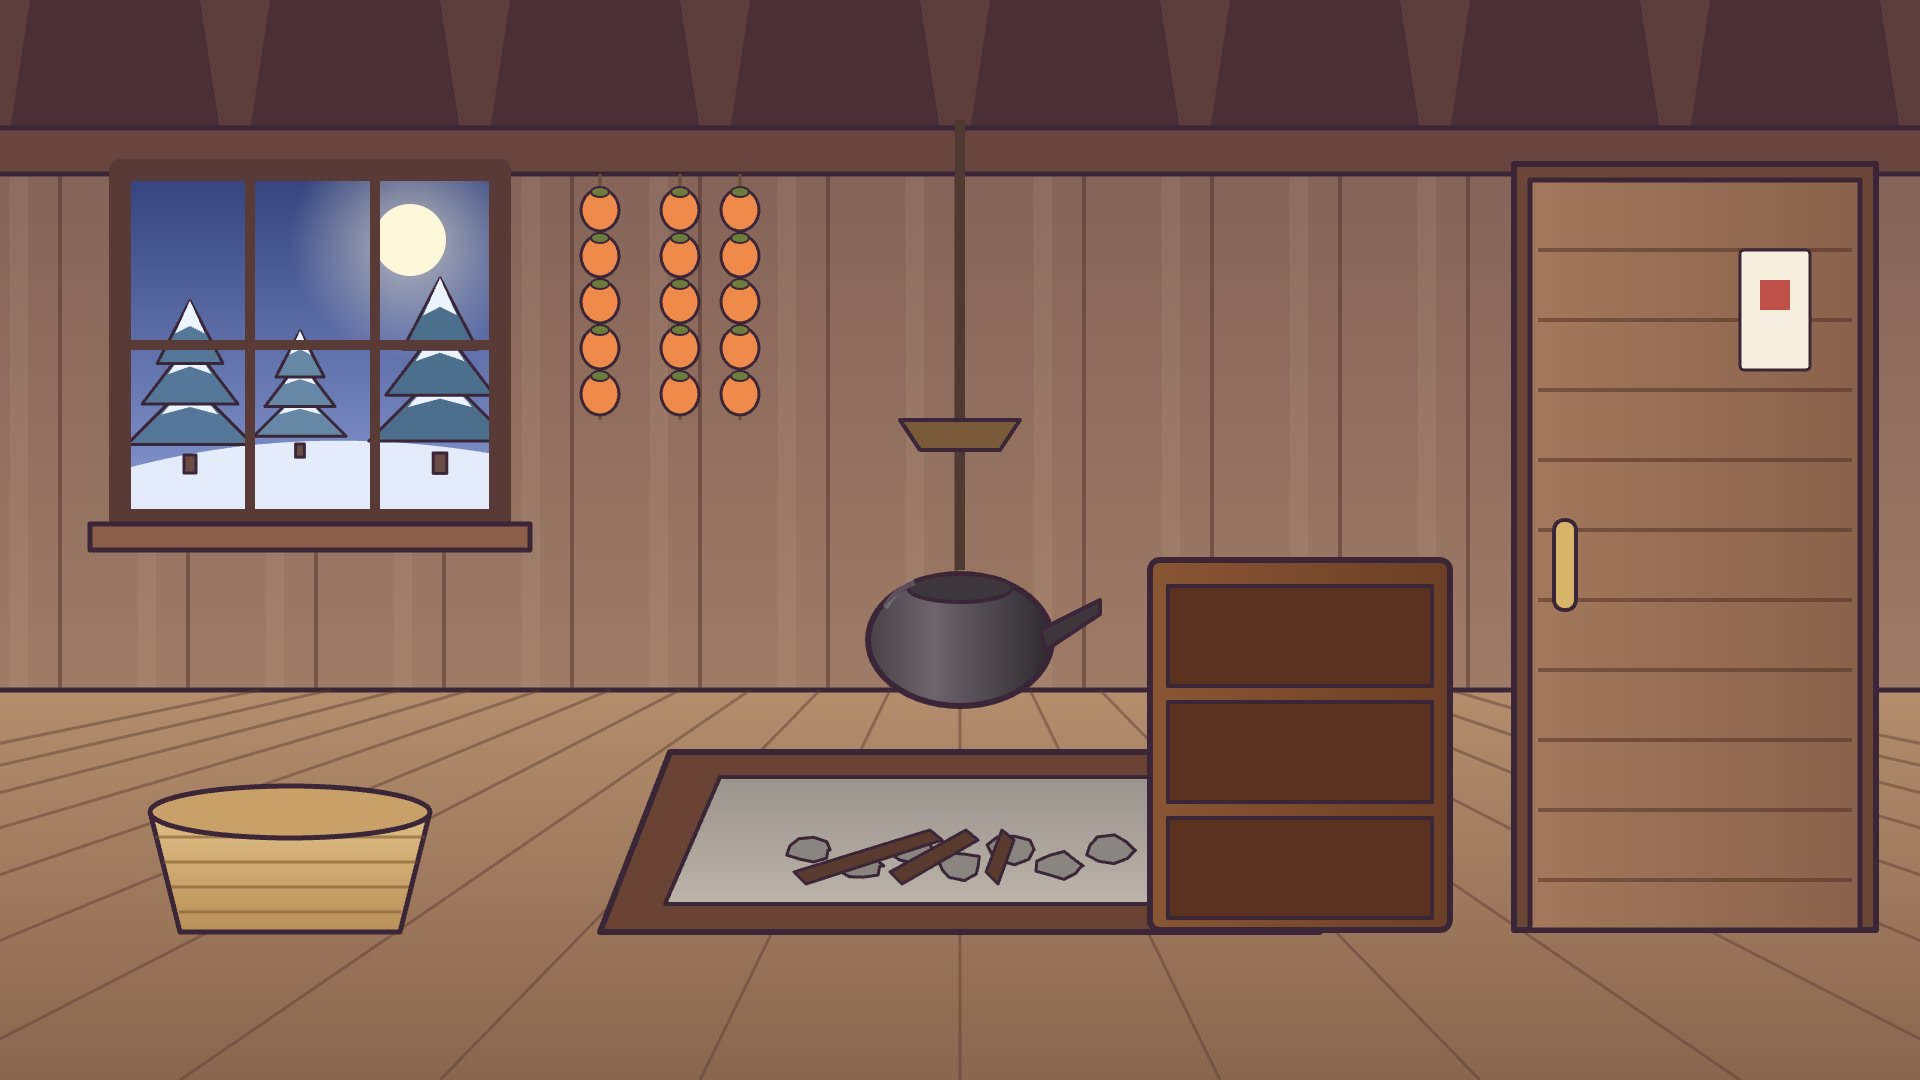
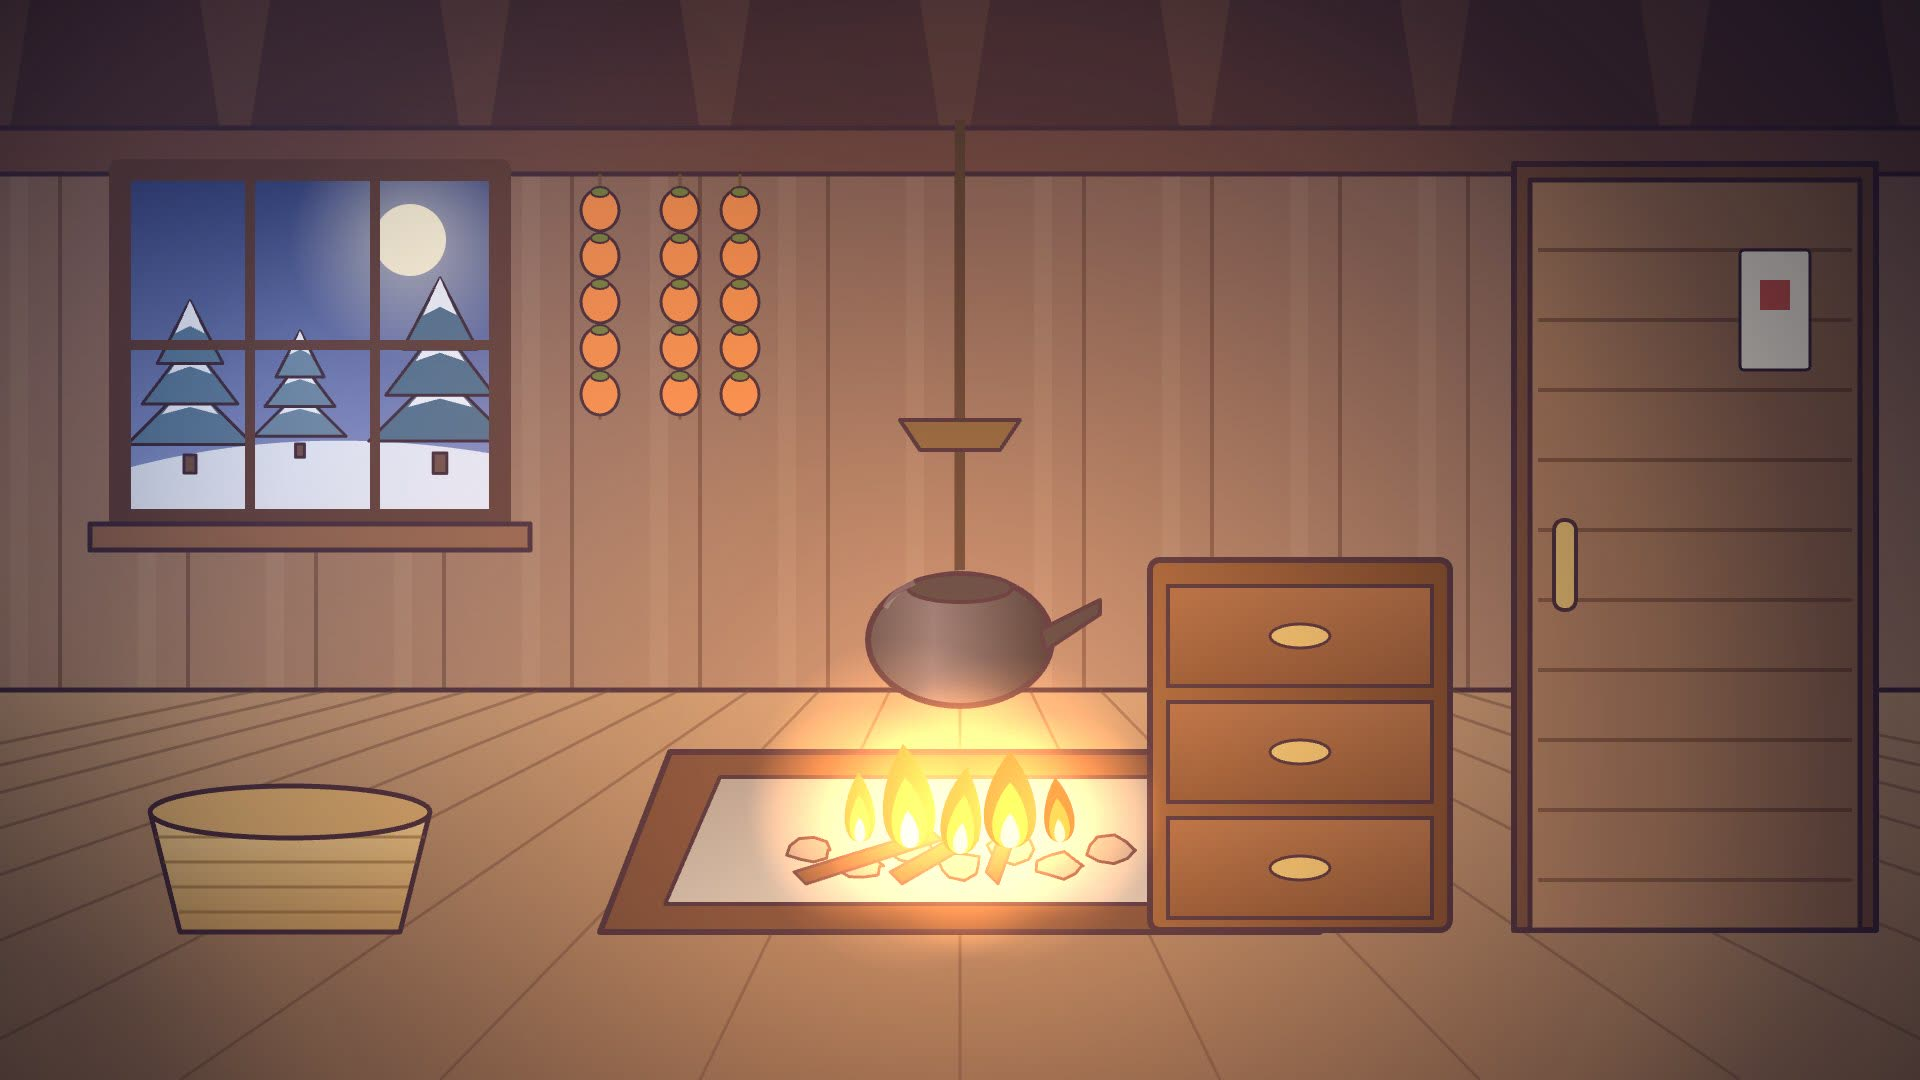
Demo10_CaveSpring: desktop Seedance kit generator (one folder per clip: first/last frame, Demo 1/3 style refs, prompt + negative prompt files, index.html with copy buttons); burning-hearth layout ref for hut_fire

diff --git a/demos/Demo10_CaveSpring/game.js b/demos/Demo10_CaveSpring/game.js
@@ -629,7 +629,9 @@
   }
   if (QS.get('shot')) {
     document.body.classList.add('cover-only', 'shot'); $('intro').classList.add('hidden');
-    const k = QS.get('shot'); ART.drawBg(ctx, k === 'gateOpen' ? 'gate' : k, 1);
+    const k = QS.get('shot');
+    if (k === 'hutFire') { Object.assign(S.hut, { tinder: true, flint: true, candle: true, ember: 1, fire: 1 }); S.scene = 'hut'; drawHut(ctx, 1.1); lighting(ctx, 1.1); return; }   // layout ref: hearth burning
+    ART.drawBg(ctx, k === 'gateOpen' ? 'gate' : k, 1);
     if (k === 'gateOpen') { ART.gateSlab(ctx, 1); }
     else if (k === 'gate') ART.gateSlab(ctx, 0);
     return;

diff --git a/demos/Demo10_CaveSpring/scripts/make_seedance_kit.py b/demos/Demo10_CaveSpring/scripts/make_seedance_kit.py
@@ -1,0 +1,121 @@
+#!/usr/bin/env python3
+"""Desktop kit for the Seedance backgrounds (same idea as the Demo 7–9 kits): reads ../Seedance素材命令.md and builds
+~/Desktop/MoHeat_Demo10_Seedance素材/ — one folder per clip with its first (and last) frame, style references,
+the full positive prompt (general + shot) and the negative prompt as separate files, plus an index.html with copy buttons.
+Re-run after editing the .md. The user drops the generated <name>.mp4 into the same folder."""
+import html, json, os, re, shutil
+from PIL import Image
+
+ROOT = os.path.dirname(os.path.dirname(os.path.abspath(__file__)))
+DEMOS = os.path.dirname(ROOT)
+KIT = os.path.expanduser('~/Desktop/MoHeat_Demo10_Seedance素材')
+md = open(os.path.join(ROOT, 'Seedance素材命令.md'), encoding='utf-8').read()
+blocks = re.findall(r'```\n(.*?)\n```', md, re.S)
+general, negative = blocks[0].strip(), blocks[1].strip()
+shots = re.findall(r'### (\d) · `([\w]+)\.mp4` · (.+?)\n```\n(.*?)\n```', md, re.S)
+rows = {m[0]: m for m in re.findall(r'\| (\d) \| `[\w]+\.mp4` \| (.+?) \| (.+?) \|', md)}
+STYLE = [('画风参考_A_Demo1房间.jpg', os.path.join(DEMOS, 'Demo1_SnowFoxfire/art/chatgpt/room_bg.png')),
+         ('画风参考_B_Demo3舞台.jpg', os.path.join(DEMOS, 'Demo3_ShiningSmileConcert/assets/new_stage/concert_stage_split.png'))]
+FRAMES = {'1': ['01_hut_night'], '2': ['02_hut_fire'], '3': ['03_gate_night'], '4': ['03_gate_night', '04_gate_open_end'],
+          '5': ['05_tunnel_fork'], '6': ['06_spring_dark'], '7': ['07_spring_glow']}
+PRIORITY = {'7': '★ 最优先', '3': '优先', '4': '优先'}
+FIRE_OK = {'2'}   # hut_fire is the one clip that SHOULD show fire
+
+def jpg(src, dst):
+    im = Image.open(src).convert('RGB'); im.thumbnail((1920, 1920)); im.save(dst, 'JPEG', quality=90)
+
+if os.path.isdir(KIT):
+    for d in os.listdir(KIT):   # keep anything the user generated (*.mp4); rebuild the rest
+        p = os.path.join(KIT, d)
+        if os.path.isdir(p):
+            for f in os.listdir(p):
+                if not f.endswith(('.mp4', '.mov')): os.remove(os.path.join(p, f))
+os.makedirs(KIT, exist_ok=True)
+cards = []
+for num, name, title, shot in shots:
+    folder = f'{num}_{name}'; d = os.path.join(KIT, folder); os.makedirs(d, exist_ok=True)
+    frames = FRAMES[num]; files = []
+    for i, fr in enumerate(frames):
+        lab = '首帧' if i == 0 else '尾帧'
+        dst = f'{lab}_{fr}.jpg'; jpg(os.path.join(ROOT, 'project/layout_refs', fr + '.jpg'), os.path.join(d, dst)); files.append(dst)
+    for dst, src in STYLE: jpg(src, os.path.join(d, dst)); files.append(dst)
+    neg = negative if num not in FIRE_OK else negative.replace('fire (unless asked), ', '')
+    pos = general + '\n\n' + shot.strip()
+    open(os.path.join(d, 'prompt.txt'), 'w').write(pos + '\n')
+    open(os.path.join(d, '负面提示词.txt'), 'w').write(neg + '\n')
+    two = len(frames) > 1
+    how = (f'图生视频 · 16:9 · 1080p · 5 s · 固定镜头 · 运动幅度小\n'
+           f'首帧：{files[0]}' + (f'\n尾帧：{files[1]}（石门打开后的样子；只播一次，不用循环）' if two else '\n尾帧：同一张首帧（无缝循环；不支持首尾帧就只传首帧）') +
+           '\n画风参考（支持多参考图时一起上传）：画风参考_A / B — 只学画风，不要照搬内容'
+           f'\n生成后存成：{name}.mp4（放在这个文件夹里）')
+    open(os.path.join(d, '00_做法.txt'), 'w').write(f'{num} · {name}.mp4 · {title}\n\n{how}\n\n—— 正面提示词：prompt.txt\n—— 负面提示词：负面提示词.txt\n')
+    cards.append(dict(num=num, name=name, title=title, folder=folder, files=files, pos=pos, neg=neg, how=how, prio=PRIORITY.get(num, ''), two=two))
+
+open(os.path.join(KIT, '00_使い方.txt'), 'w').write('''MoHeat Evo — 解谜 Demo《火をともして、ひみつの泉へ》Seedance 素材包
+
+只做背景，共 7 段 5 秒视频（狐狸、蜡烛、火焰、道具都由程序画，视频里不要出现）。
+画风和 Demo 1–4 一样：可爱日系 2D、粉彩、赛璐璐。
+
+最方便：双击 index.html。每段一张卡片：参考图缩略图 +「复制提示词」「复制负面提示词」按钮 + 做完打勾。
+每段也有自己的文件夹：
+  首帧_*.jpg     构图参考（我程序画的简单版，物体位置要一致，请重画成精致插画）
+  尾帧_*.jpg     只有第 4 段（石门打开）有
+  画风参考_A/B   Demo 1 房间、Demo 3 舞台，只学画风
+  prompt.txt / 负面提示词.txt / 00_做法.txt
+
+参数：图生视频 · 16:9 · 1080p · 5 秒 · 固定镜头 · 运动幅度小。
+优先顺序：7（地底湖发光，全片高潮）→ 3、4（洞口石门）→ 1、2（小屋）→ 5 → 6。
+
+生成后：挑最好的一条，按文件夹里写的文件名（例：spring_glow.mp4）存进同一个文件夹，告诉我就行。
+不能用的：出现人物/动物/文字、镜头在动、物体位置和首帧差很多。
+''')
+
+def esc(s): return html.escape(s, quote=True)
+items = ''.join(f'''
+<article class="card" data-id="{c['name']}">
+  <header><span class="num">{c['num']}</span><div><h2>{esc(c['title'])} {f'<em>{c["prio"]}</em>' if c['prio'] else ''}</h2>
+    <p class="save">生成后存成 <code>{c['folder']}/{c['name']}.mp4</code></p></div>
+    <label class="done"><input type="checkbox"> 完成</label></header>
+  <div class="refs">{''.join(f'<figure><a href="{c["folder"]}/{f}" target="_blank"><img src="{c["folder"]}/{f}" alt=""></a><figcaption>{esc(f)}</figcaption></figure>' for f in c['files'])}</div>
+  <pre class="how">{esc(c['how'])}</pre>
+  <div class="btns"><button data-copy="pos">📋 复制提示词</button><button data-copy="neg">🚫 复制负面提示词</button><a href="{c['folder']}/" target="_blank">📂 打开文件夹</a></div>
+  <details><summary>查看提示词</summary><pre>{esc(c['pos'])}</pre><pre class="neg">{esc(c['neg'])}</pre></details>
+</article>''' for c in cards)
+data = json.dumps({c['name']: {'pos': c['pos'], 'neg': c['neg']} for c in cards}, ensure_ascii=False)
+open(os.path.join(KIT, 'index.html'), 'w').write(f'''<!doctype html><html lang="zh"><head><meta charset="utf-8"><meta name="viewport" content="width=device-width,initial-scale=1">
+<title>Seedance 素材 · 火をともして、ひみつの泉へ</title>
+<style>
+:root{{--bg:#16121c;--card:#211b2a;--line:#3a3046;--ink:#f1ecf5;--soft:#b3a9c0;--acc:#ffb36b;--cool:#8fd8ff}}
+*{{box-sizing:border-box}} body{{margin:0;background:var(--bg);color:var(--ink);font:14px/1.6 -apple-system,"Hiragino Sans","PingFang SC",sans-serif}}
+main{{max-width:1180px;margin:0 auto;padding:24px 16px 60px}} h1{{margin:0 0 4px;font-size:24px}} .lead{{color:var(--soft);margin:0 0 6px}}
+.params{{display:inline-block;margin:6px 0 18px;padding:6px 12px;border-radius:999px;background:rgba(143,216,255,.12);border:1px solid rgba(143,216,255,.4);color:var(--cool)}}
+.card{{background:var(--card);border:1px solid var(--line);border-radius:16px;padding:16px;margin:0 0 16px}} .card.is-done{{opacity:.55}}
+.card header{{display:flex;gap:12px;align-items:flex-start}} .num{{flex:none;width:34px;height:34px;border-radius:50%;display:grid;place-items:center;background:var(--acc);color:#2a1606;font-weight:800}}
+.card h2{{margin:0;font-size:17px}} .card h2 em{{font-style:normal;font-size:12px;color:#2a1606;background:#ffd36a;border-radius:999px;padding:1px 8px;margin-left:6px;vertical-align:2px}}
+.save{{margin:2px 0 0;color:var(--soft)}} code{{background:#0f0c14;padding:1px 6px;border-radius:6px;color:#ffe0b8}}
+.done{{margin-left:auto;white-space:nowrap;cursor:pointer;color:var(--soft)}}
+.refs{{display:grid;grid-template-columns:repeat(auto-fill,minmax(200px,1fr));gap:10px;margin:12px 0}} figure{{margin:0}}
+figure img{{width:100%;aspect-ratio:16/9;object-fit:cover;border-radius:10px;border:1px solid var(--line);display:block}} figcaption{{font-size:11.5px;color:var(--soft);margin-top:3px;word-break:break-all}}
+pre{{white-space:pre-wrap;margin:8px 0;padding:10px 12px;border-radius:10px;background:#0f0c14;border:1px solid var(--line);font:12.5px/1.55 ui-monospace,Menlo,monospace}} pre.neg{{color:#ffb3b3}} .how{{color:#d8f1ff}}
+.btns{{display:flex;flex-wrap:wrap;gap:8px}} .btns button,.btns a{{cursor:pointer;border:1px solid var(--line);background:#2d2538;color:var(--ink);border-radius:10px;padding:8px 14px;font:inherit;text-decoration:none}}
+.btns button:hover,.btns a:hover{{border-color:var(--acc)}} .btns button.ok{{background:#2f6b45;border-color:#3ddc84}} summary{{cursor:pointer;color:var(--soft);margin-top:8px}}
+</style></head><body><main>
+<h1>Seedance 素材 · 火をともして、ひみつの泉へ</h1>
+<p class="lead">7 段背景循环视频（5 秒）。画风同 Demo 1–4：可爱日系 2D、粉彩、赛璐璐。狐狸、蜡烛、火焰、道具都由程序画，视频里不要出现。</p>
+<span class="params">图生视频 · 16:9 · 1080p · 5 s · 固定镜头 · 运动幅度小 · 优先：7 → 3/4 → 1/2 → 5 → 6</span>
+{items}
+</main><script>
+const P = {data};
+document.querySelectorAll('.card').forEach((c) => {{
+  const id = c.dataset.id, cb = c.querySelector('.done input'), key = 'd10kit.' + id;
+  try {{ cb.checked = localStorage.getItem(key) === '1'; }} catch {{}}
+  c.classList.toggle('is-done', cb.checked);
+  cb.addEventListener('change', () => {{ c.classList.toggle('is-done', cb.checked); try {{ localStorage.setItem(key, cb.checked ? '1' : '0'); }} catch {{}} }});
+  c.querySelectorAll('[data-copy]').forEach((b) => b.addEventListener('click', async () => {{
+    const t = P[id][b.dataset.copy];
+    try {{ await navigator.clipboard.writeText(t); }} catch {{ const a = document.createElement('textarea'); a.value = t; document.body.appendChild(a); a.select(); document.execCommand('copy'); a.remove(); }}
+    const o = b.textContent; b.textContent = '✓ 已复制'; b.classList.add('ok'); setTimeout(() => {{ b.textContent = o; b.classList.remove('ok'); }}, 1400);
+  }}));
+}});
+</script></body></html>''')
+print(KIT, [c['folder'] for c in cards])
